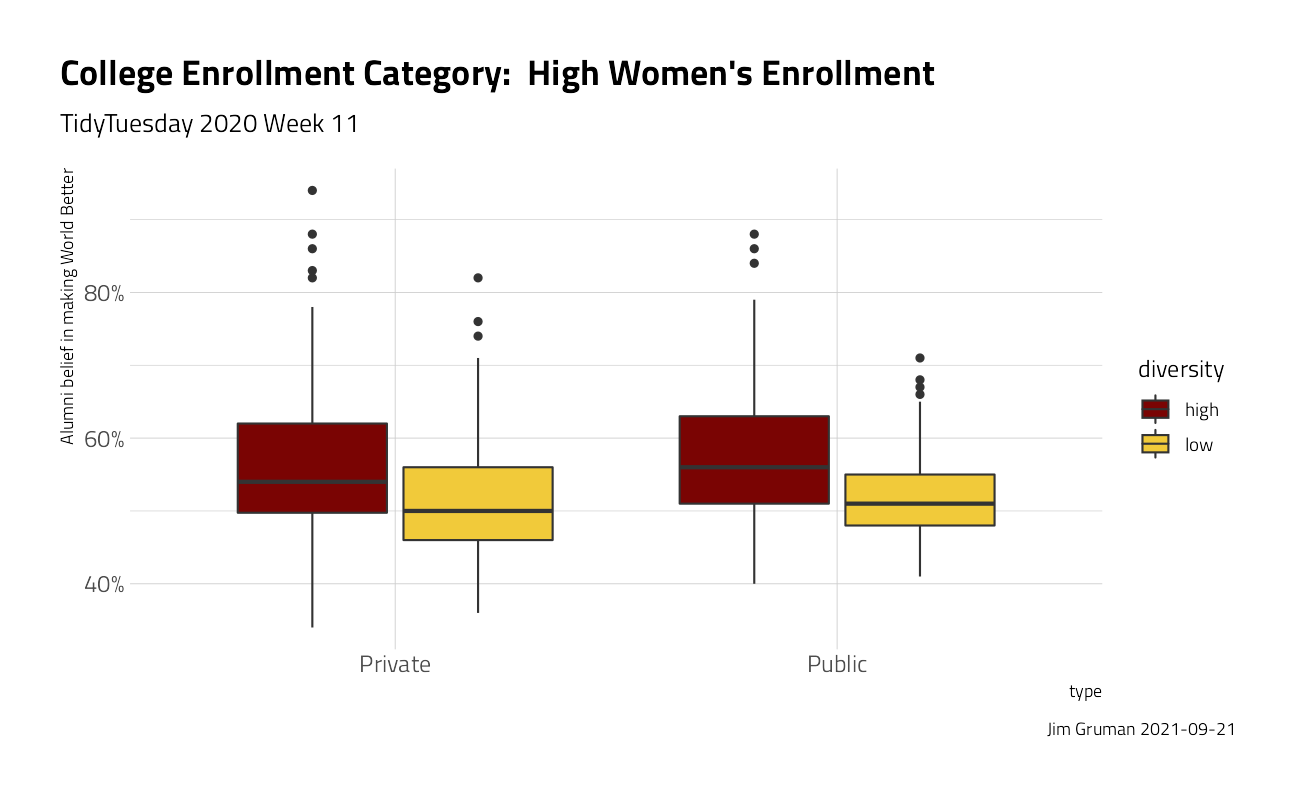
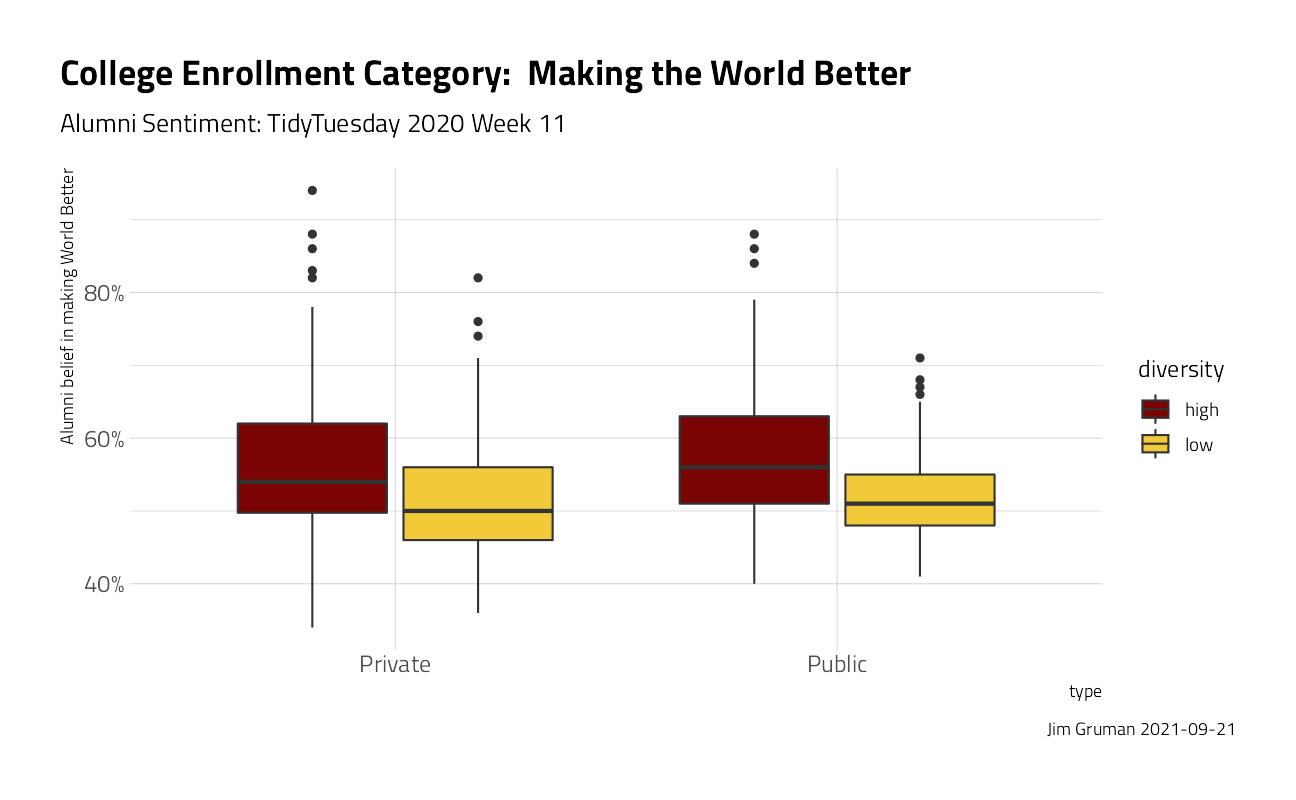
Build site.

Changed region(s): [[0.0309, 0.125, 0.4012, 0.1875], [0.4012, 0.0625, 0.7099, 0.125]]

diff --git a/docs/CollegeTuitionandDiversity.html b/docs/CollegeTuitionandDiversity.html
@@ -404,16 +404,16 @@ This reproducible <a href="http://rmarkdown.rstudio.com">R Markdown</a> analysis
 <div class="panel panel-default">
 <div class="panel-heading">
 <p class="panel-title">
-<a data-toggle="collapse" data-parent="#workflowr-checks" href="#strongRepositoryversionstrongahrefhttpsgithubcomopus1993myTidyTuesdaytreeb37dbc19003be2e6da2fe64b64eb86c78bcff974targetblankb37dbc1a"> <span class="glyphicon glyphicon-ok text-success" aria-hidden="true"></span> <strong>Repository version:</strong> <a href="https://github.com/opus1993/myTidyTuesday/tree/b37dbc19003be2e6da2fe64b64eb86c78bcff974" target="_blank">b37dbc1</a> </a>
+<a data-toggle="collapse" data-parent="#workflowr-checks" href="#strongRepositoryversionstrongahrefhttpsgithubcomopus1993myTidyTuesdaytree64bbdef038f5aaeab29b5e434751edf863cb4f10targetblank64bbdefa"> <span class="glyphicon glyphicon-ok text-success" aria-hidden="true"></span> <strong>Repository version:</strong> <a href="https://github.com/opus1993/myTidyTuesday/tree/64bbdef038f5aaeab29b5e434751edf863cb4f10" target="_blank">64bbdef</a> </a>
 </p>
 </div>
[2 lines of base64/hex data omitted]
 <div class="panel-body">
 <p>
 Great! You are using Git for version control. Tracking code development and connecting the code version to the results is critical for reproducibility.
 </p>
 <p>
-The results in this page were generated with repository version <a href="https://github.com/opus1993/myTidyTuesday/tree/b37dbc19003be2e6da2fe64b64eb86c78bcff974" target="_blank">b37dbc1</a>. See the <em>Past versions</em> tab to see a history of the changes made to the R Markdown and HTML files.
+The results in this page were generated with repository version <a href="https://github.com/opus1993/myTidyTuesday/tree/64bbdef038f5aaeab29b5e434751edf863cb4f10" target="_blank">64bbdef</a>. See the <em>Past versions</em> tab to see a history of the changes made to the R Markdown and HTML files.
 </p>
 <p>
 Note that you need to be careful to ensure that all relevant files for the analysis have been committed to Git prior to generating the results (you can use <code>wflow_publish</code> or <code>wflow_git_commit</code>). workflowr only checks the R Markdown file, but you know if there are other scripts or data files that it depends on. Below is the status of the Git repository when the results were generated:
@@ -476,6 +476,40 @@ Message
 </tr>
 </thead>
 <tbody>
+<tr>
+<td>
+Rmd
+</td>
+<td>
+<a href="https://github.com/opus1993/myTidyTuesday/blob/64bbdef038f5aaeab29b5e434751edf863cb4f10/analysis/CollegeTuitionandDiversity.Rmd" target="_blank">64bbdef</a>
+</td>
+<td>
+opus1993
+</td>
+<td>
+2021-09-21
+</td>
+<td>
+add annotations to boxplots
+</td>
+</tr>
+<tr>
+<td>
+html
+</td>
+<td>
+<a href="https://rawcdn.githack.com/opus1993/myTidyTuesday/69e090141af264745fa87dba17835ea989e85914/docs/CollegeTuitionandDiversity.html" target="_blank">69e0901</a>
+</td>
+<td>
+opus1993
+</td>
+<td>
+2021-09-21
+</td>
+<td>
+Build site.
+</td>
+</tr>
 <tr>
 <td>
 Rmd
@@ -559,7 +593,7 @@ university_df %&gt;%
   facet_wrap(~region) +
   labs(
     title = &quot;College Enrollment Category:  High Women&#39;s Enrollment&quot;,
-    subtitle = &quot;TidyTuesday 2020 Week 11&quot;,
+    subtitle = &quot;by Region: TidyTuesday 2020 Week 11&quot;,
     caption = paste0(&quot;Jim Gruman &quot;, Sys.Date())
   )</code></pre>
 <p><img src="figure/CollegeTuitionandDiversity.Rmd/unnamed-chunk-3-1.png" width="200%" style="display: block; margin: auto;" /></p>
@@ -569,7 +603,7 @@ university_df %&gt;%
   scale_y_log10() +
   labs(
     title = &quot;College Enrollment Category:  High Women&#39;s Enrollment&quot;,
-    subtitle = &quot;TidyTuesday 2020 Week 11&quot;,
+    subtitle = &quot;by Type:  TidyTuesday 2020 Week 11&quot;,
     caption = paste0(&quot;Jim Gruman &quot;, Sys.Date())
   ) +
   theme(plot.title.position = &quot;plot&quot;)</code></pre>
@@ -578,8 +612,8 @@ university_df %&gt;%
   ggplot(aes(type, make_world_better_percent / 100, fill = diversity)) +
   geom_boxplot() +
   labs(
-    title = &quot;College Enrollment Category:  High Women&#39;s Enrollment&quot;,
-    subtitle = &quot;TidyTuesday 2020 Week 11&quot;,
+    title = &quot;College Enrollment Category:  Making the World Better&quot;,
+    subtitle = &quot;Alumni Sentiment: TidyTuesday 2020 Week 11&quot;,
     caption = paste0(&quot;Jim Gruman &quot;, Sys.Date())
   ) +
   scale_y_continuous(labels = scales::percent_format()) +
@@ -858,7 +892,7 @@ glm_fit &lt;- glm_spec %&gt;%
 glm_fit</code></pre>
 <pre><code>parsnip model object
 
-Fit time:  20ms 
+Fit time:  0ms 
 
 Call:  stats::glm(formula = diversity ~ ., family = stats::binomial, 
     data = data)
@@ -890,7 +924,7 @@ knn_fit &lt;- knn_spec %&gt;%
 knn_fit</code></pre>
 <pre><code>parsnip model object
 
-Fit time:  20ms 
+Fit time:  10ms 
 
 Call:
 kknn::train.kknn(formula = diversity ~ ., data = data, ks = min_rows(5,     data, 5))
@@ -910,7 +944,7 @@ tree_fit &lt;- tree_spec %&gt;%
 tree_fit</code></pre>
 <pre><code>parsnip model object
 
-Fit time:  20ms 
+Fit time:  0ms 
 n= 479 
 
 node), split, n, loss, yval, (yprob)
